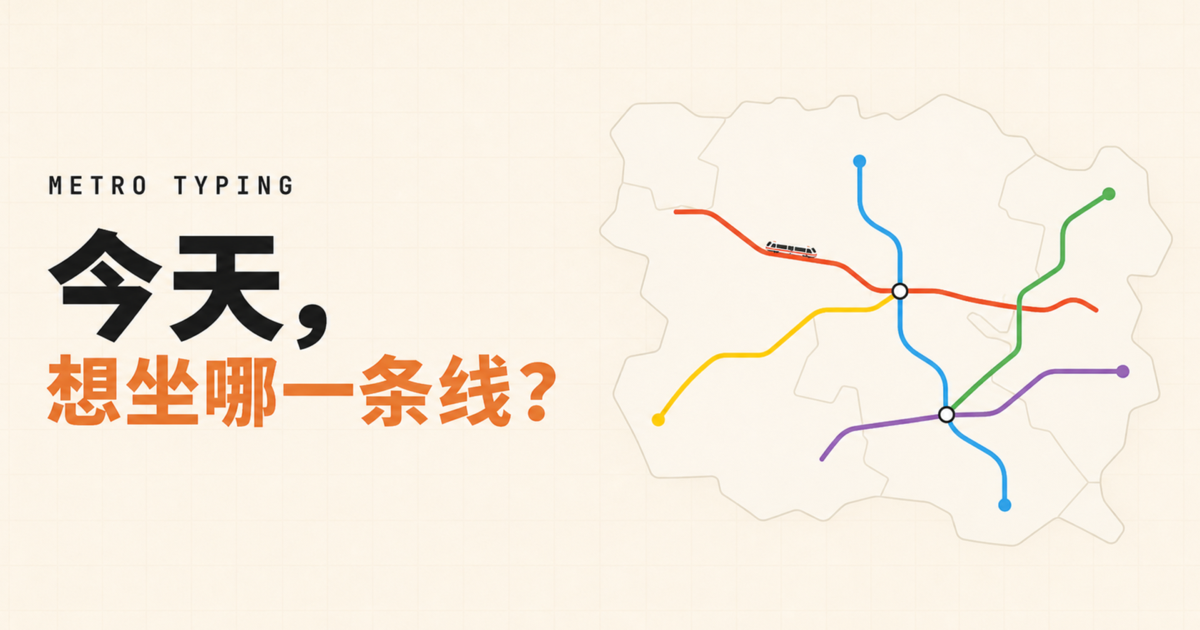
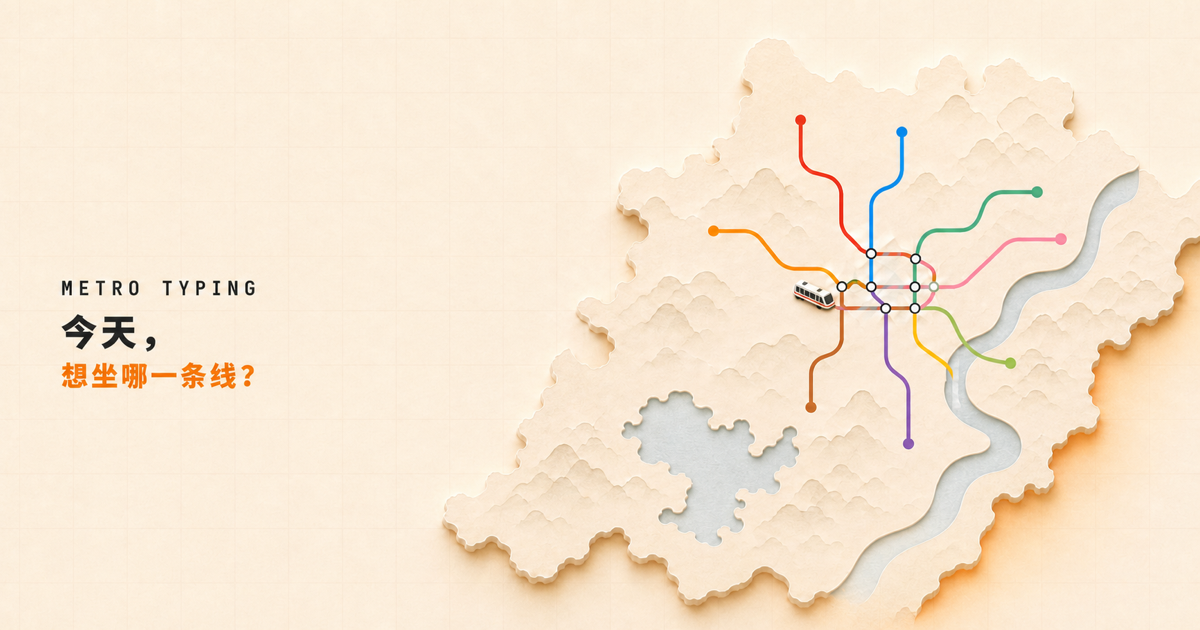
Refine Hangzhou map and project preview

Changed region(s): [[0.0308, 0.0905, 1.0, 1.0], [0.0308, 0.2714, 0.2467, 0.3317]]

diff --git a/app/MetroTyping.tsx b/app/MetroTyping.tsx
@@ -115,7 +115,10 @@ function pointsToString(points: Point[]) {
   return points.map(([x, y]) => `${x.toFixed(2)},${y.toFixed(2)}`).join(" ");
 }
 
-function ringToPath(ring: Point[], project: (lon: number, lat: number) => Point) {
+function ringToPath(
+  ring: Point[],
+  project: (lon: number, lat: number) => Point,
+) {
   if (!ring.length) return "";
   return `${ring
     .map(([lon, lat], index) => {

diff --git a/lib/metro/cities.ts b/lib/metro/cities.ts
@@ -45,8 +45,8 @@ const cityList: CityConfig[] = [
       {
         districts: ["临安区", "富阳区"],
         leftStationPadding: 32,
-        leftContextWidth: 48,
-        farContextYScale: 0.32,
+        leftContextWidth: 64,
+        farContextYScale: 0.06,
       },
     ],
   },

diff --git a/lib/metro/map-geometry.js b/lib/metro/map-geometry.js
@@ -10,7 +10,7 @@
 export function compressBeforeFocus(value, focus, contextWidth) {
   if (value >= focus || contextWidth <= 0) return value;
   const distance = focus - value;
-  return focus + contextWidth * Math.expm1(-distance / contextWidth);
+  return focus - (distance * contextWidth) / (distance + contextWidth);
 }
 
 /**

diff --git a/app/globals.css b/app/globals.css
@@ -250,6 +250,7 @@ button { color: inherit; }
   fill: color-mix(in srgb, var(--card) 92%, #e9e5db);
   stroke: #bbb7ae;
   stroke-width: 1.6;
+  stroke-linejoin: round;
   vector-effect: non-scaling-stroke;
   transition: opacity 0.3s ease;
 }

diff --git a/README.en.md b/README.en.md
@@ -2,6 +2,8 @@
 
 [简体中文](./README.md) | English
 
+![METRO TYPING: Which line would you like to ride today?](./public/og.png)
+
 A small project that turns city metro routes into a typing game.
 
 Type station names along real routes and in their actual order while getting to know each city's metro network through play.

diff --git a/README.md b/README.md
@@ -2,6 +2,8 @@
 
 简体中文 | [English](./README.en.md)
 
+![METRO TYPING：今天，想坐哪一条线？](./public/og.png)
+
 一个把城市地铁线路变成打字游戏的小项目。
 
 你可以沿着真实的线路和站序输入站名，在游玩的过程中熟悉城市地铁线路。